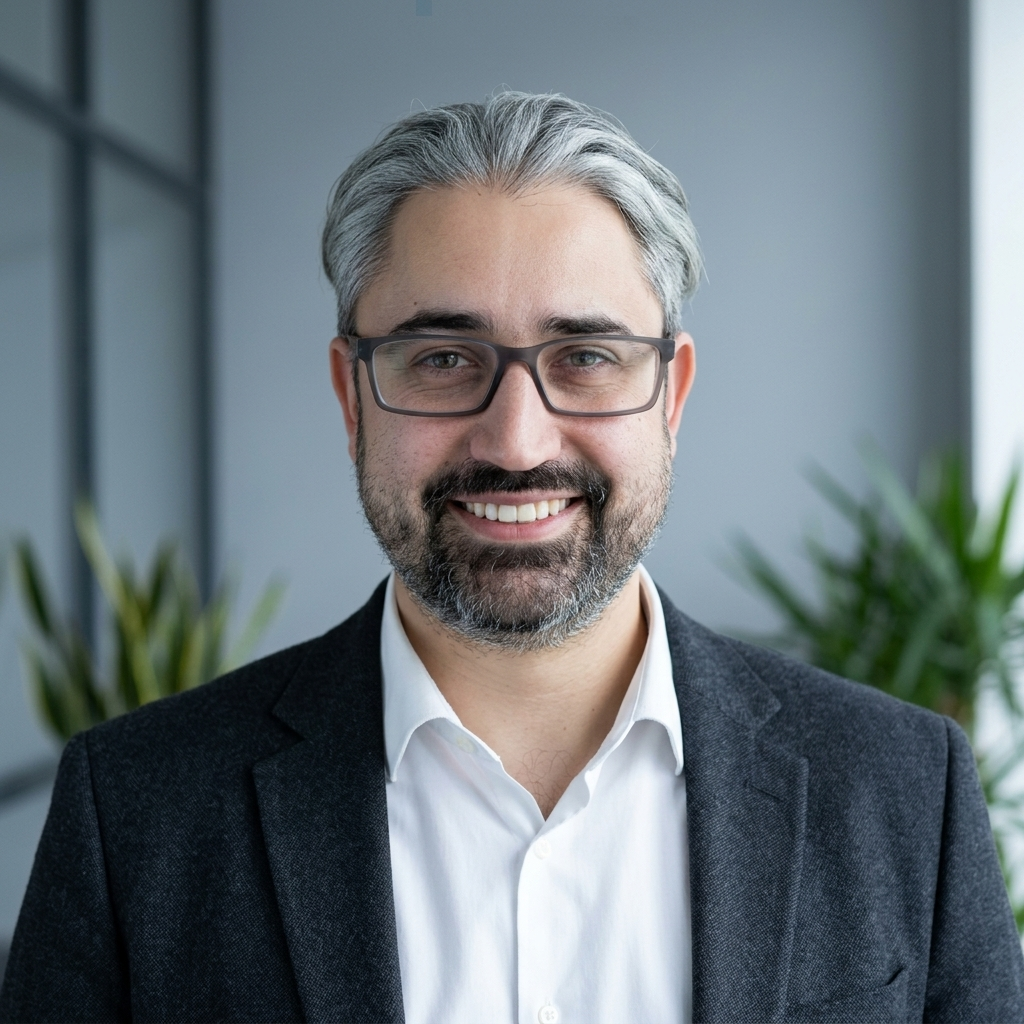
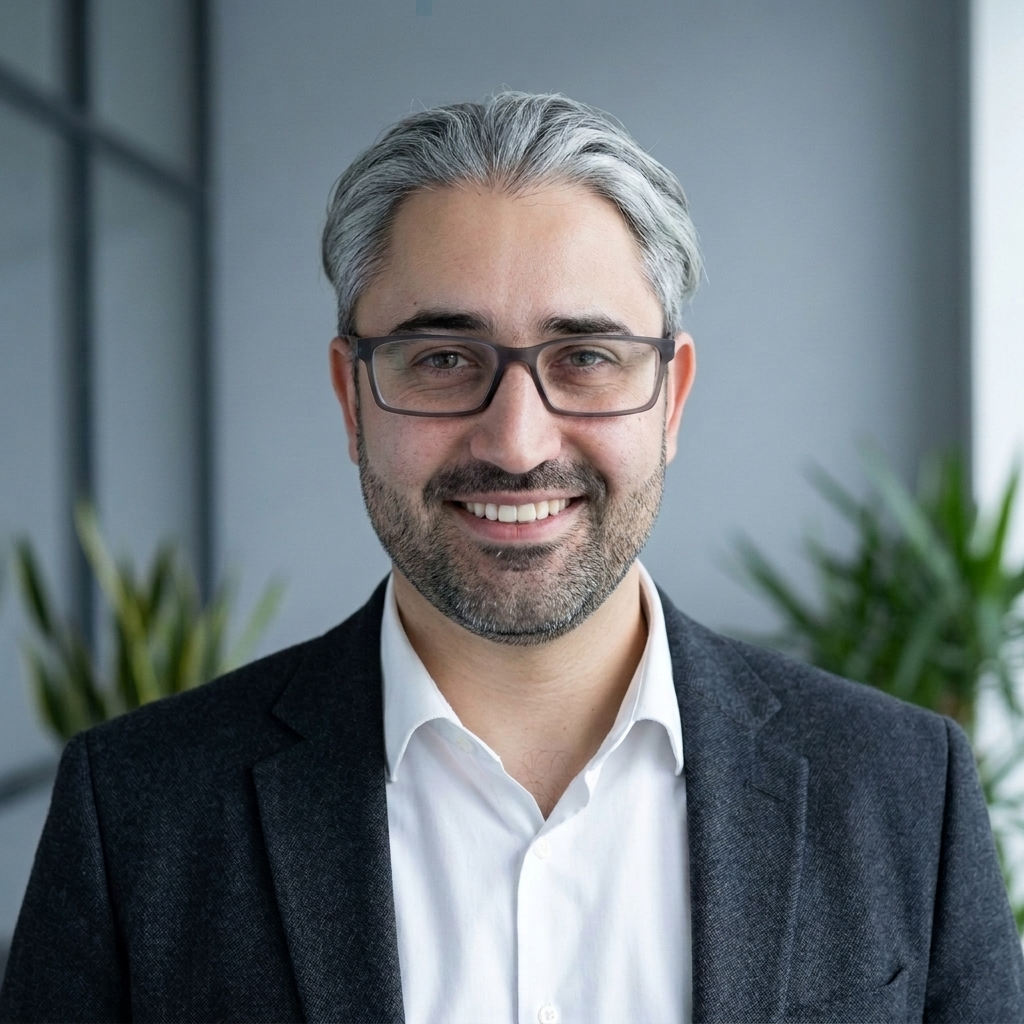
feat: regenerate Daniel's portrait to trim and groom his beard neatly

Changed region(s): [[0.3438, 0.4062, 0.6562, 0.6875], [0.75, 0.9688, 0.7812, 1.0]]

diff --git a/index.html b/index.html
@@ -16,7 +16,7 @@
     <meta property="og:description" content="Egyedi, prémium minőségű weboldalak tervezése és fejlesztése elképesztő sebességgel és keresőoptimalizált kóddal.">
     
     <!-- CSS stylesheet -->
-    <link rel="stylesheet" href="style.css?v=42">
+    <link rel="stylesheet" href="style.css?v=43">
 </head>
 <body>
 
@@ -308,7 +308,7 @@
         <section class="section-padding" id="rolam">
             <div class="container rolam-container">
                 <div class="rolam-image-wrap">
-                    <img src="daniel-portrait.jpg?v=42" alt="Borbás Dániel - Borbás Webdesign" class="rolam-img">
+                    <img src="daniel-portrait.jpg?v=43" alt="Borbás Dániel - Borbás Webdesign" class="rolam-img">
                 </div>
                 <div class="rolam-content">
                     <h2 class="section-title">Személyes figyelem, <span>sablonok nélkül</span></h2>
@@ -734,6 +734,6 @@
     </footer>
 
     <!-- JS Logic -->
-    <script src="app.js?v=42"></script>
+    <script src="app.js?v=43"></script>
 </body>
 </html>